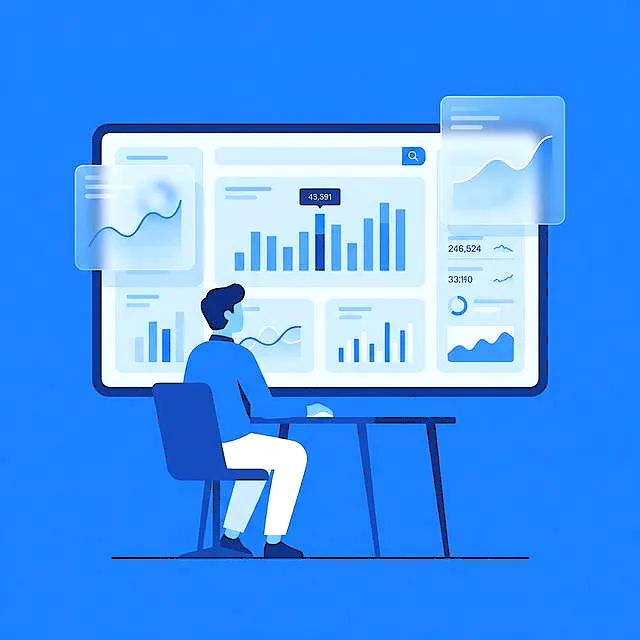
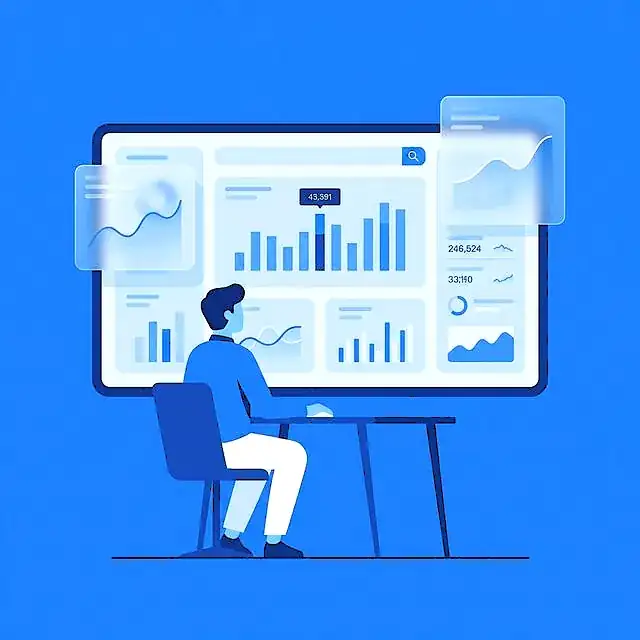
feat: Implement initial homepage with idea input, generation, and enhancement capabilities, alongside core application structure and assets.

diff --git a/src/components/FullScreenLoader.jsx b/src/components/FullScreenLoader.jsx
@@ -1,14 +1,28 @@
-import React from 'react';
+import React, { useRef, lazy, Suspense } from 'react';
 import ReactDOM from 'react-dom';
+import loaderAnimation from '../assets/loader.json';
+
+// Lazy load the player to keep the initial index bundle small
+const Lottie = lazy(() => import('lottie-react'));
 
 const FullScreenLoader = () => {
+    const lottieRef = useRef(null);
+
     const loaderContent = (
         <div className="w-full h-screen flex flex-col items-center justify-center bg-white fixed inset-0 z-[9999]">
-            <div className="relative w-16 h-16">
-                <div className="absolute inset-0 border-2 border-[var(--brand-accent)]/20 rounded-full"></div>
-                <div className="absolute inset-0 border-2 border-[var(--brand-accent)] rounded-full animate-[spin_1.5s_cubic-bezier(0.76,0,0.24,1)_infinite] border-t-transparent shadow-[0_0_15px_rgba(59,130,246,0.3)]"></div>
+            <div className="w-[150px] h-[150px] flex items-center justify-center">
+                <Suspense fallback={
+                    <div className="w-12 h-12 border-2 border-[var(--brand-accent)]/20 border-t-[var(--brand-accent)] rounded-full animate-spin" />
+                }>
+                    <Lottie
+                        lottieRef={lottieRef}
+                        animationData={loaderAnimation}
+                        loop={true}
+                        style={{ width: '100%', height: '100%' }}
+                    />
+                </Suspense>
             </div>
-            <div className="mt-8">
+            <div className="mt-4">
                 <span className="text-gray-900 font-display text-xl tracking-tightest opacity-80 animate-pulse">Capable</span>
             </div>
         </div>

diff --git a/src/pages/HomePage.jsx b/src/pages/HomePage.jsx
@@ -40,13 +40,12 @@ const HomePage = () => {
     const videoRef = useRef(null);
 
     // Optimize video performance and slow down playback
-    useEffect(() => {
-        if (videoRef.current) {
-            videoRef.current.playbackRate = 0.75;
-            // Immediate hardware acceleration hint
-            videoRef.current.style.transform = 'translateZ(0)';
+    // Optimize video performance handles playback rate
+    const handleVideoLoad = (e) => {
+        if (e.target) {
+            e.target.playbackRate = 0.75;
         }
-    }, []);
+    };
 
     // Animated Placeholder Logic
     useEffect(() => {
@@ -174,6 +173,7 @@ const HomePage = () => {
                     <div className="relative w-full h-full rounded-2xl md:rounded-3xl overflow-hidden">
                         <video
                             ref={videoRef}
+                            onLoadedMetadata={handleVideoLoad}
                             autoPlay
                             loop
                             muted
@@ -184,8 +184,6 @@ const HomePage = () => {
                             className="h-full w-full object-cover"
                             style={{
                                 backfaceVisibility: 'hidden',
-                                willChange: 'transform',
-                                transform: 'translateZ(0)',
                                 backgroundColor: '#0c1428', // Fallback color for instant appearance
                                 filter: 'brightness(0.9)' // Subtle darkening for better contrast
                             }}

diff --git a/src/components/Header.jsx b/src/components/Header.jsx
@@ -45,7 +45,7 @@ const Header = () => {
 
     return (
         <motion.header
-            className={`fixed top-0 left-0 right-0 z-50 transition-all duration-500 ${showShrink ? 'pt-4 px-4 md:px-8' : 'pt-0 px-0'}`}
+            className={`fixed top-0 left-0 right-0 z-50 ${showShrink ? 'pt-4 px-4 md:px-8' : 'pt-0 px-0'}`}
         >
             <div className={`relative mx-auto flex items-center justify-between border-b transition-all duration-500 ${showShrink ? 'max-w-5xl px-6 py-4 bg-white/70 backdrop-blur-md border-white/20 rounded-lg shadow-md border-slate-200/50' : `max-w-full w-full px-8 py-5 ${isHomePage ? 'bg-transparent border-transparent' : 'bg-white/80 backdrop-blur-md border-slate-100'} rounded-none`}`}>
 

diff --git a/src/App.jsx b/src/App.jsx
@@ -1,7 +1,7 @@
 import React from 'react';
 import { BrowserRouter as Router, Routes, Route, Navigate, useLocation } from 'react-router-dom';
 import Layout from './components/Layout';
-const HomePage = React.lazy(() => import('./pages/HomePage'));
+import HomePage from './pages/HomePage';
 const PricingPage = React.lazy(() => import('./pages/PricingPage'));
 const VenturePage = React.lazy(() => import('./pages/VenturePage'));
 const DashboardPage = React.lazy(() => import('./pages/DashboardPage'));

diff --git a/optimize_desktop_images.py b/optimize_desktop_images.py
@@ -1,0 +1,39 @@
+import os
+from PIL import Image
+
+# Directories
+PUBLIC_DIR = r"c:\Users\Admin\OneDrive\Desktop\capable\public"
+
+# Images to optimize (Desktop versions)
+IMAGES = [
+    "feature_lightning.webp",
+    "feature_market.webp",
+    "feature_roadmaps.webp",
+    "feature_ai.webp",
+    "1.webp",
+    "2.webp",
+    "bauhaus_last_gen.webp",
+    "market_analysis_vector.webp",
+    "action_roadmap_vector.webp"
+]
+
+def optimize_desktop():
+    print(f"Starting desktop image optimization...")
+    for img_name in IMAGES:
+        src_path = os.path.join(PUBLIC_DIR, img_name)
+        if not os.path.exists(src_path):
+            continue
+        
+        try:
+            with Image.open(src_path) as img:
+                # Keep original dimensions but compress much more
+                # WebP is already compressed, but let's re-save with lower quality (60)
+                # and higher effort (method 6)
+                img.save(src_path, "WEBP", quality=60, method=6)
+                print(f"  Optimized {img_name} in place.")
+                
+        except Exception as e:
+            print(f"  Error processing {img_name}: {e}")
+
+if __name__ == "__main__":
+    optimize_desktop()
